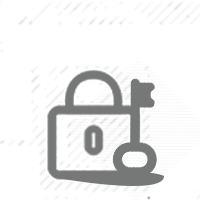
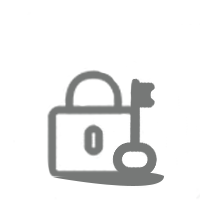
reset-password

diff --git a/src/app/reset-password/reset-password.component.html b/src/app/reset-password/reset-password.component.html
@@ -138,7 +138,7 @@
 
         <div class="row justify-content-center text-center pt-3 pb-5" *ngIf="resetPasswordSuccess">
             <div class="col-md-8 p-5 pt-3 pb-5">
-                <img src="assets/images/lock-key-accent.png">
+                <img src="assets/images/lock-keyopen-accent.png">
                 <h5 class="font-weight-semibold text-accent mb-1 ">Your Password has been Reset Successfully !
                 </h5>
                 <h6 class="font-weight-semibold text-secondary"> Please sign in with your New Password
